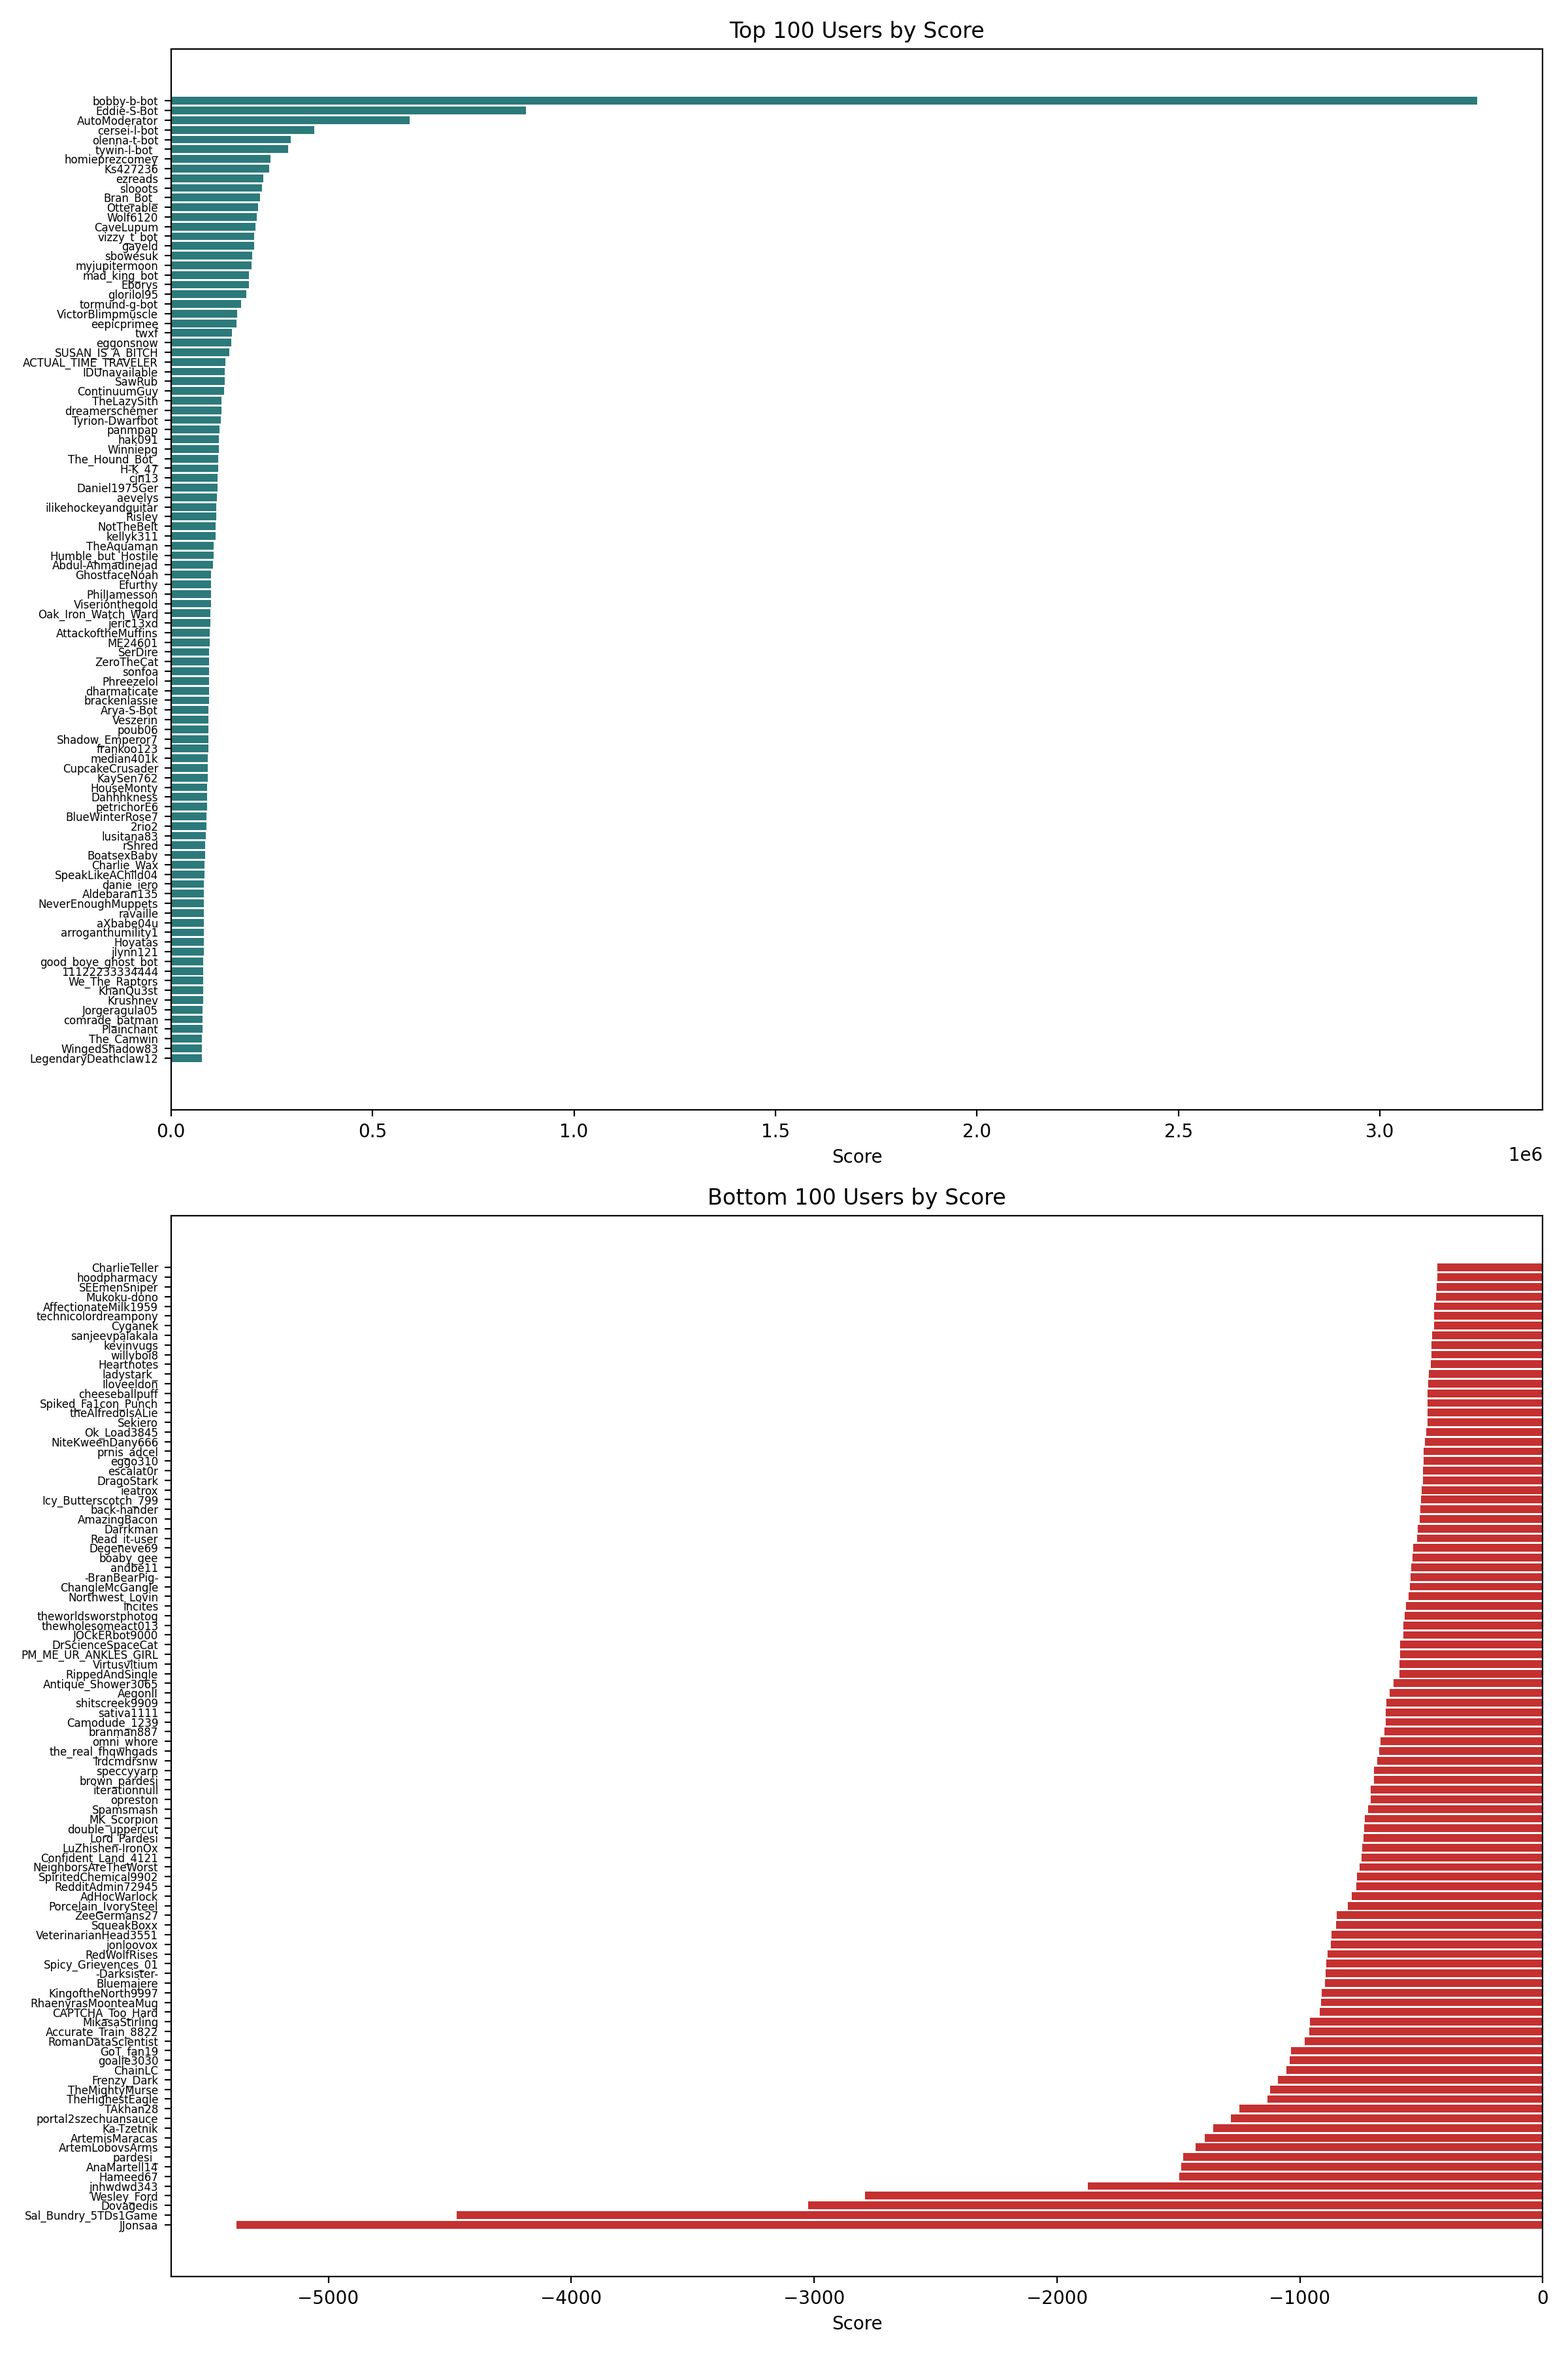
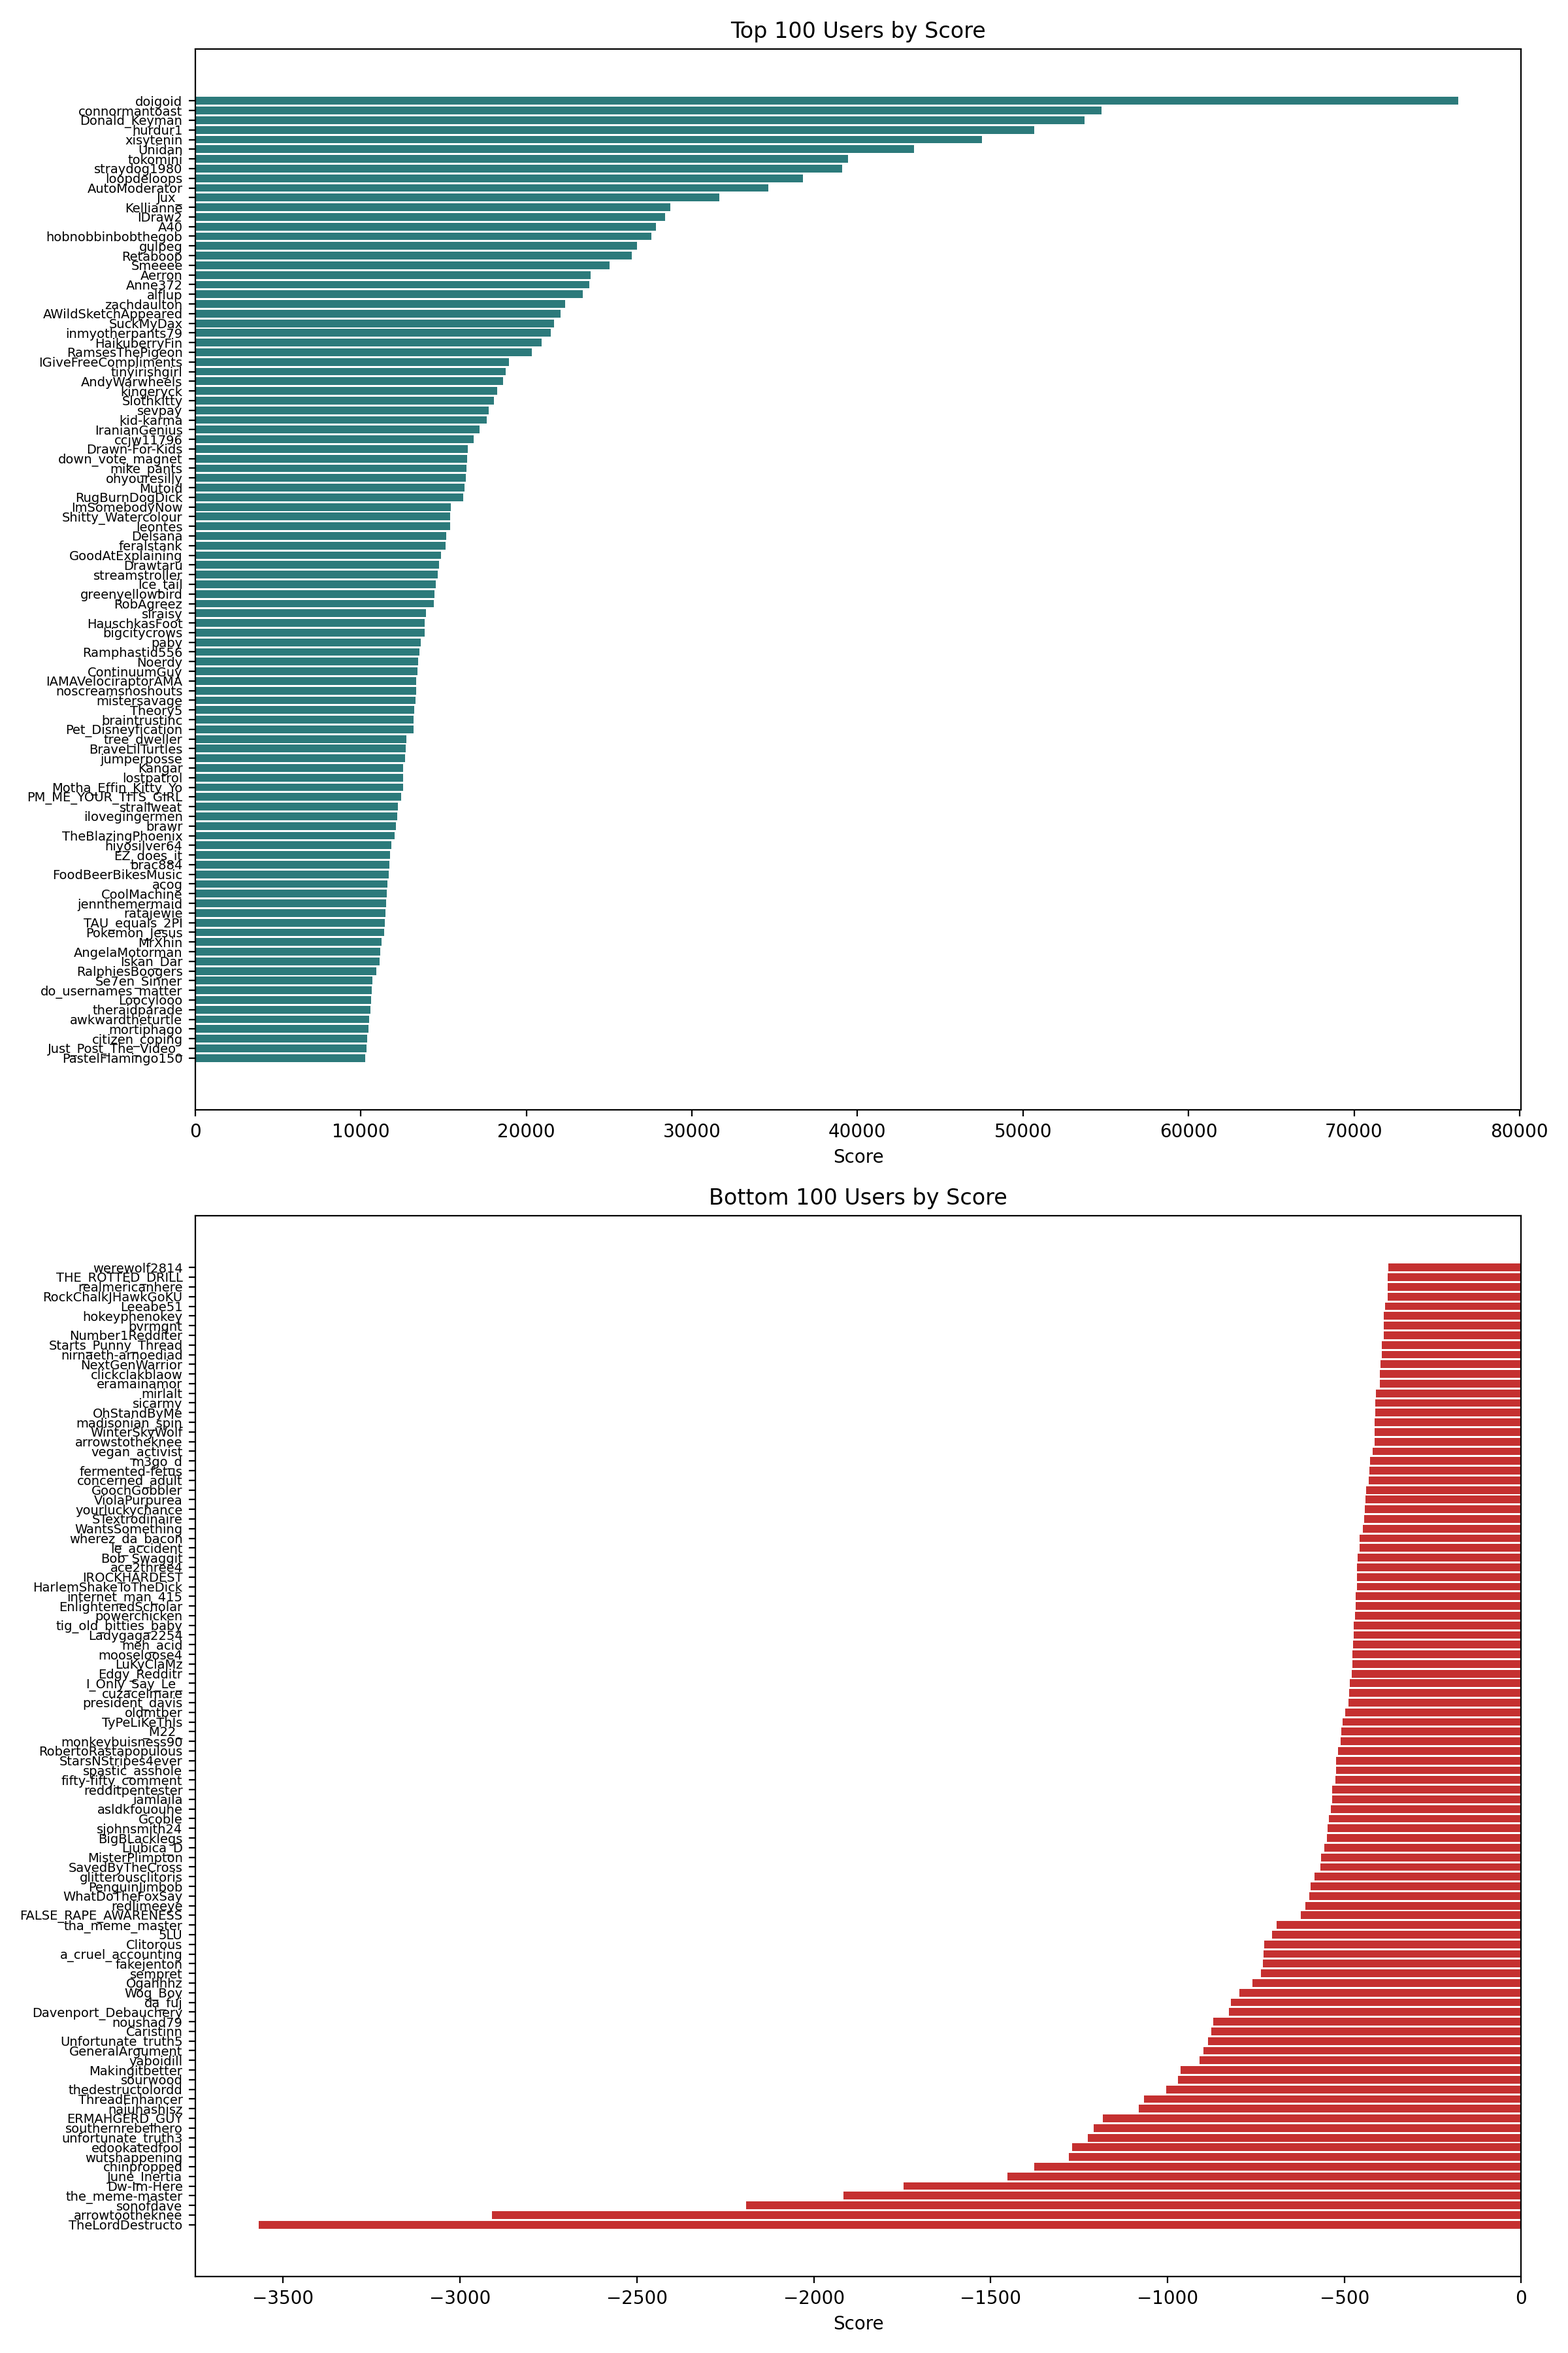
score script update, top 5 figure from aww

diff --git a/compute_user_scores.py b/compute_user_scores.py
@@ -25,10 +25,9 @@ def parse_args() -> argparse.Namespace:
         description="Compute per-user score/antiscore from Reddit comment dumps."
     )
     parser.add_argument(
-        "--data-dir",
-        default="data",
+        "comment_file",
         type=Path,
-        help='Directory containing "*_comments" files (default: data)',
+        help="Path to a *_comments file to aggregate.",
     )
     parser.add_argument(
         "--output-csv",
@@ -143,11 +142,13 @@ def make_plot(df: pd.DataFrame, output_path: Path) -> None:
 
 def main() -> None:
     args = parse_args()
-    comment_files = sorted(args.data_dir.glob("*_comments"))
-    if not comment_files:
-        raise SystemExit(f"No comment files found in {args.data_dir}")
+    comment_file = args.comment_file
+    if not comment_file.exists():
+        raise SystemExit(f"Comment file not found: {comment_file}")
+    if not comment_file.is_file():
+        raise SystemExit(f"Provided path is not a file: {comment_file}")
 
-    df = accumulate_scores(comment_files, include_deleted=args.include_deleted)
+    df = accumulate_scores([comment_file], include_deleted=args.include_deleted)
     df.to_csv(args.output_csv, index=False)
 
     if not df.empty:
